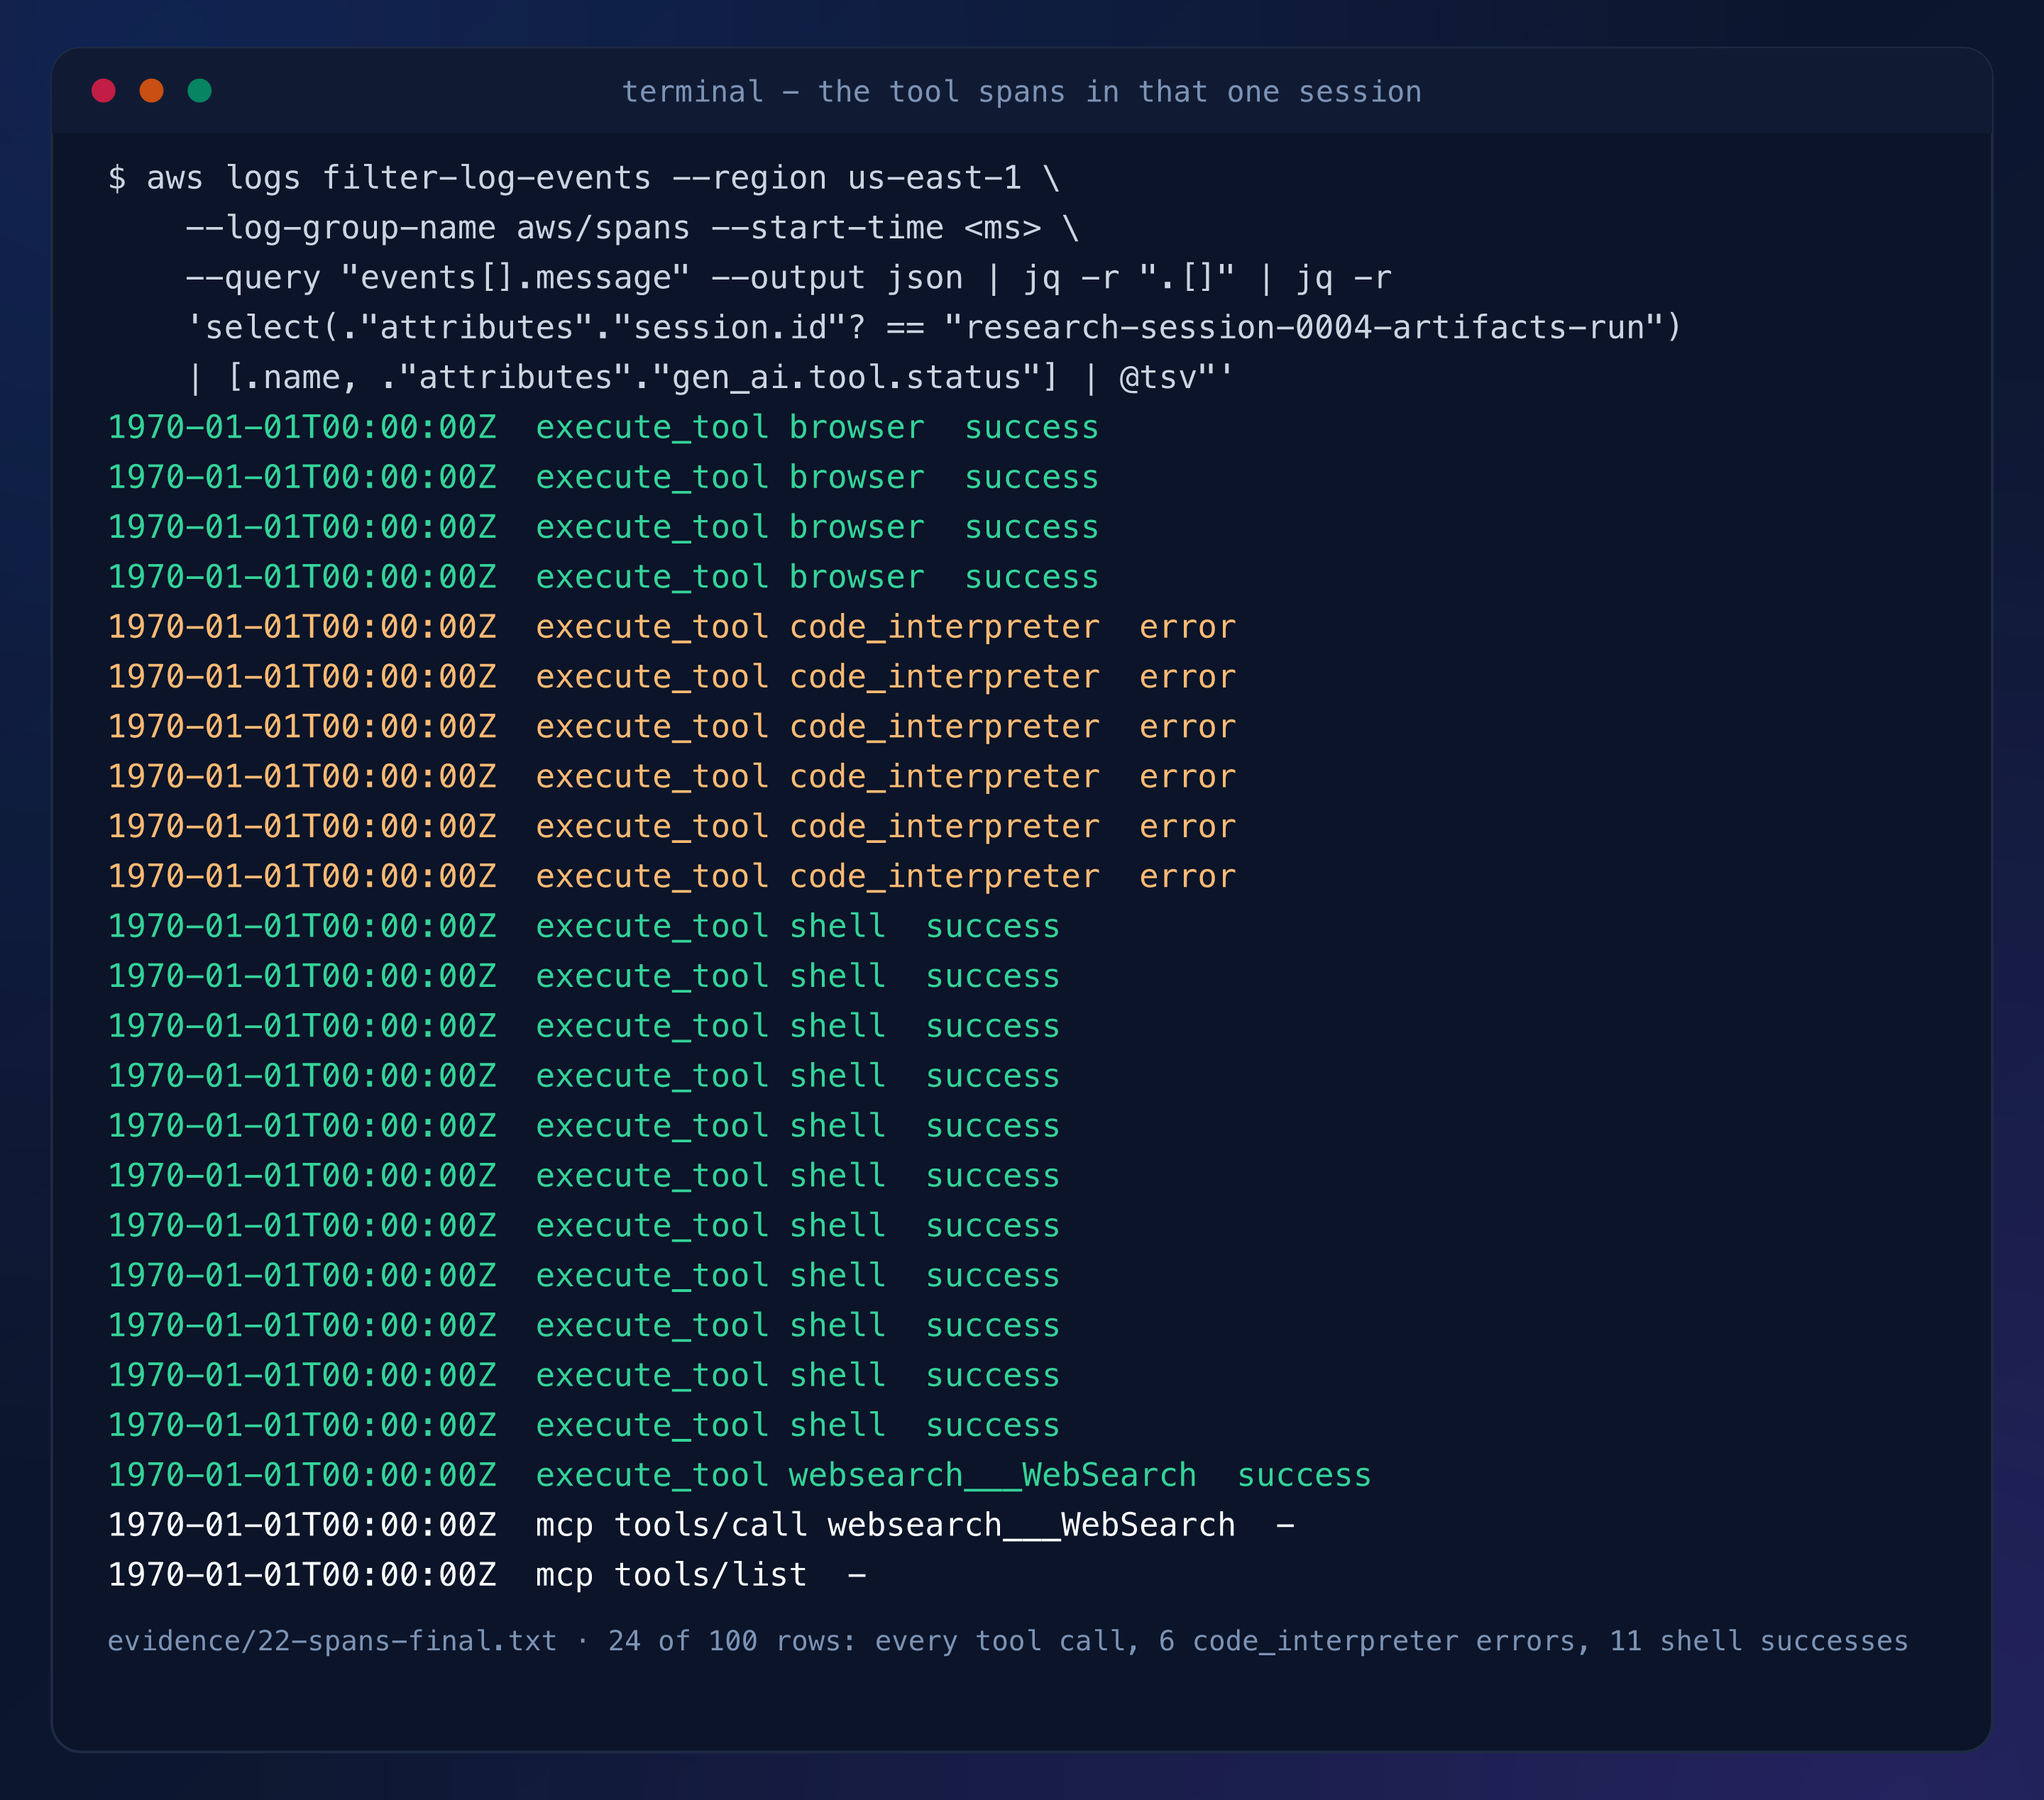
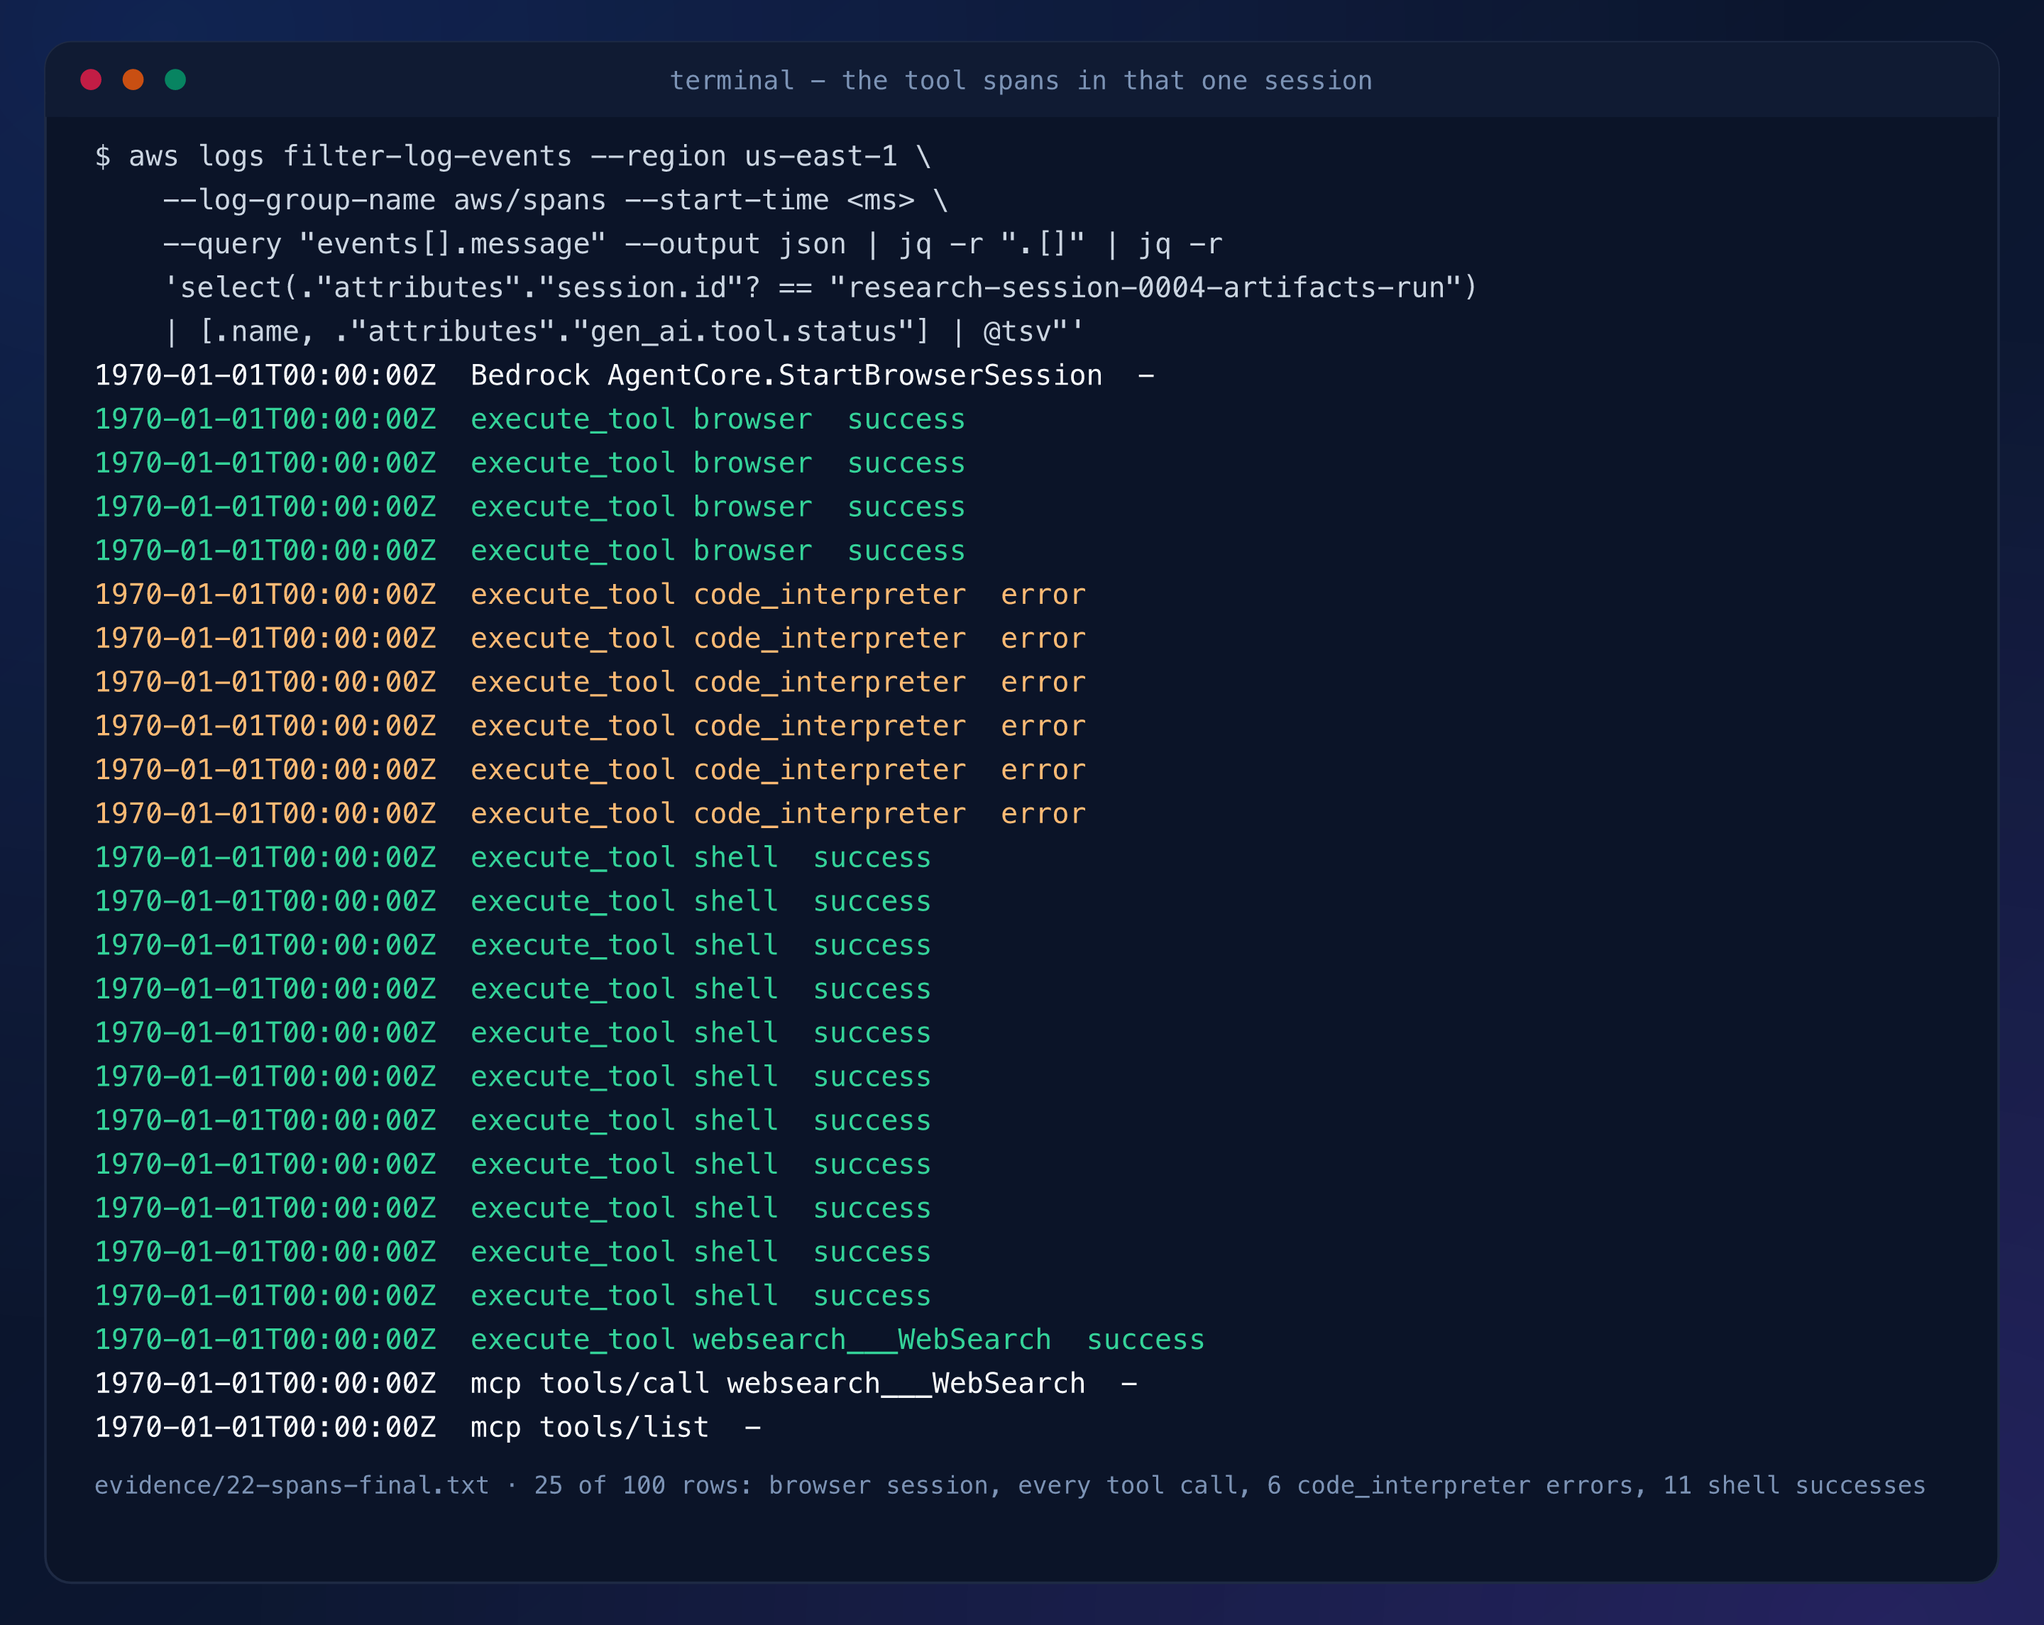
uc05 S4: keep the StartBrowserSession row the prose refers to

diff --git a/articles/images/agentcore-research-agent-harness/gen_figures.py b/articles/images/agentcore-research-agent-harness/gen_figures.py
@@ -524,7 +524,8 @@ def panels() -> None:
     # the capture is 100 rows; tabs are already two spaces by now, so the tool
     # rows are selected on the doubled space between the timestamp and the name
     ev22 = evidence_lines("22-spans-final.txt", fold=False)
-    tool_rows = [l for l in ev22 if "  execute_tool " in l or "  mcp tools/" in l]
+    tool_rows = [l for l in ev22 if "  execute_tool " in l or "  mcp tools/" in l
+                 or "  Bedrock AgentCore." in l]
     shell_box(
         "S4-spans", "terminal - the tool spans in that one session",
         panel_lines(
@@ -535,8 +536,8 @@ def panels() -> None:
              '''    | [.name, ."attributes"."gen_ai.tool.status"] | @tsv"' '''],
             tool_rows,
         ),
-        f"evidence/22-spans-final.txt · {len(tool_rows)} of {len(ev22)} rows: every tool call, "
-        "6 code_interpreter errors, 11 shell successes",
+        f"evidence/22-spans-final.txt · {len(tool_rows)} of {len(ev22)} rows: browser session, "
+        "every tool call, 6 code_interpreter errors, 11 shell successes",
     )
     ev21 = evidence_lines("21-exec-inspect.txt")
     keep = [l for l in ev21 if ("zip OK" in l or "PNG magic" in l or "dimensions" in l
